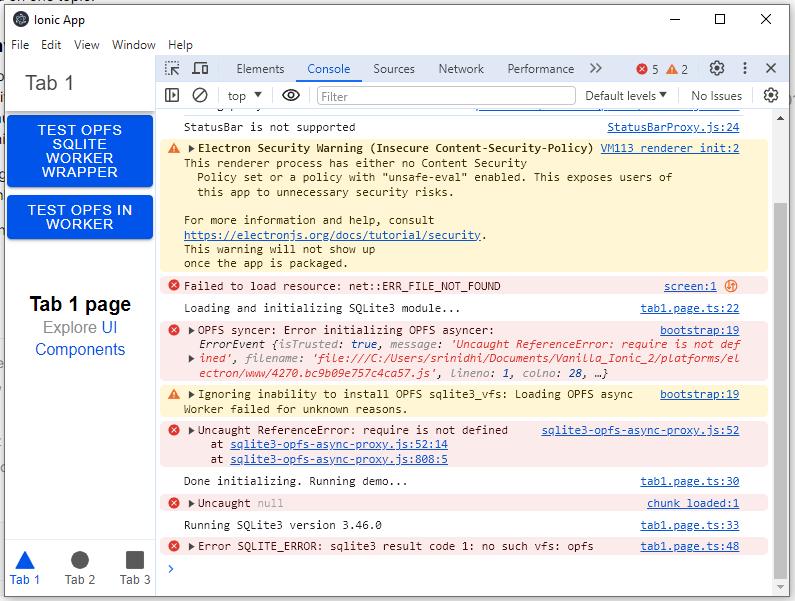
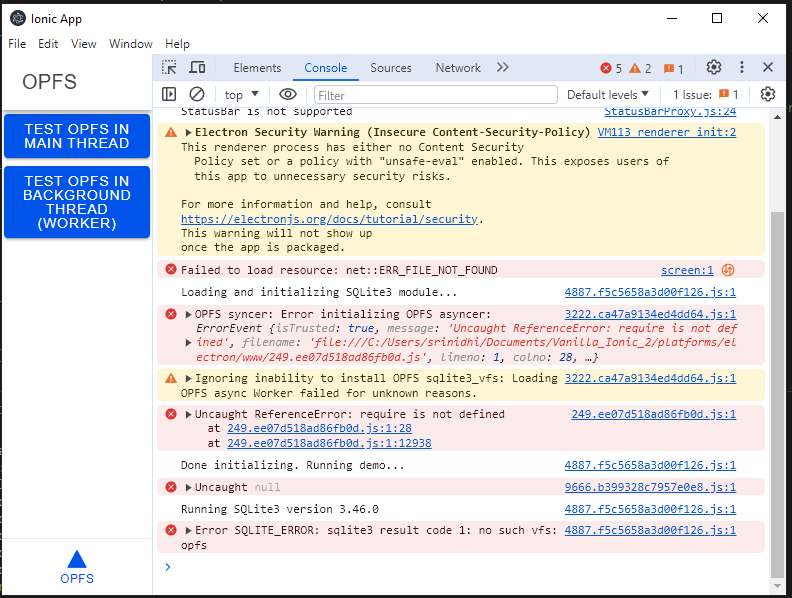
Updated image and removed sample boiler plate code.

Changed region(s): [[0.0, 0.0, 1.0, 1.0]]

diff --git a/src/app/tab1/tab1.page.html b/src/app/tab1/tab1.page.html
@@ -1,7 +1,7 @@
 <ion-header [translucent]="true">
   <ion-toolbar>
     <ion-title>
-      Tab 1
+      OPFS
     </ion-title>
   </ion-toolbar>
 </ion-header>
@@ -9,17 +9,11 @@
 <ion-content [fullscreen]="true">
   <ion-header collapse="condense">
     <ion-toolbar>
-      <ion-title size="large">Tab 1</ion-title>
+      <ion-title size="large">OPFS</ion-title>
     </ion-toolbar>
   </ion-header>
 
   <ion-button (click)="testInWorkerWrapper()">Test OPFS in Main Thread</ion-button>
   <ion-button (click)="testInWorker()">Test OPFS in Background Thread (Worker)</ion-button>
 
-  <app-explore-container name="Tab 1 page">
-
-   
-
-
-  </app-explore-container>
 </ion-content>

diff --git a/src/app/tabs/tabs.page.html b/src/app/tabs/tabs.page.html
@@ -3,17 +3,7 @@
   <ion-tab-bar slot="bottom">
     <ion-tab-button tab="tab1" href="/tabs/tab1">
       <ion-icon aria-hidden="true" name="triangle"></ion-icon>
-      <ion-label>Tab 1</ion-label>
-    </ion-tab-button>
-
-    <ion-tab-button tab="tab2" href="/tabs/tab2">
-      <ion-icon aria-hidden="true" name="ellipse"></ion-icon>
-      <ion-label>Tab 2</ion-label>
-    </ion-tab-button>
-
-    <ion-tab-button tab="tab3" href="/tabs/tab3">
-      <ion-icon aria-hidden="true" name="square"></ion-icon>
-      <ion-label>Tab 3</ion-label>
+      <ion-label>OPFS</ion-label>
     </ion-tab-button>
   </ion-tab-bar>
 

diff --git a/src/app/explore-container/explore-container.component.html b/src/app/explore-container/explore-container.component.html
@@ -1,4 +1,2 @@
 <div id="container">
-  <strong>{{ name }}</strong>
-  <p>Explore <a target="_blank" rel="noopener noreferrer" href="https://ionicframework.com/docs/components">UI Components</a></p>
 </div>
